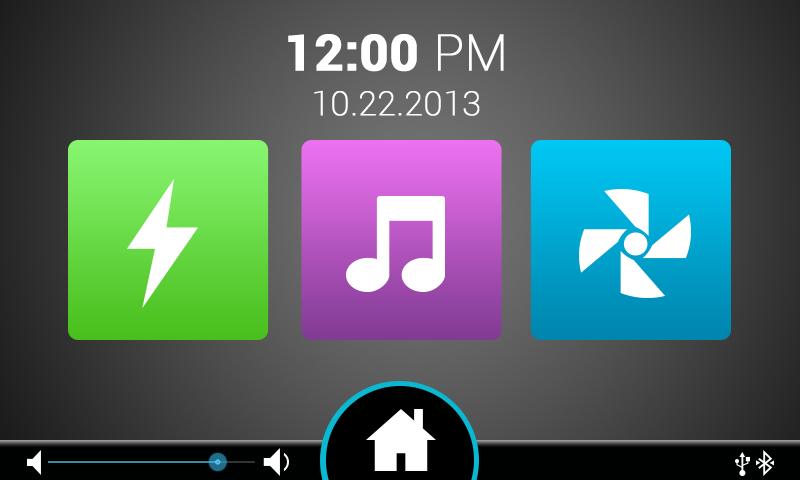
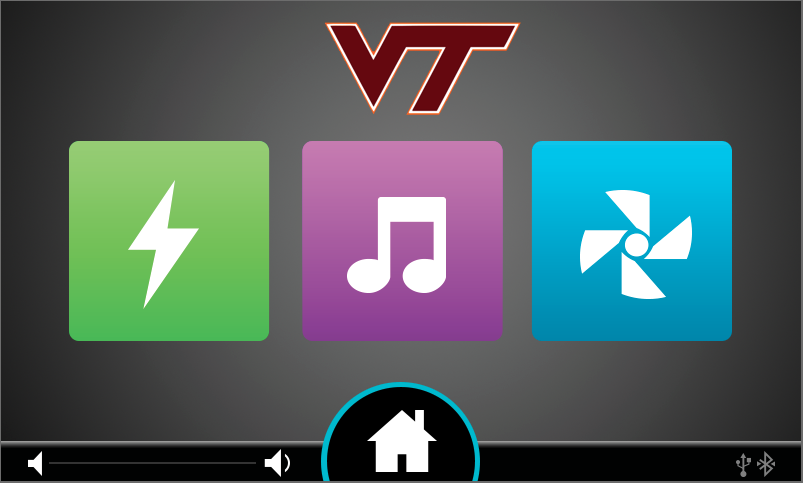
volume setting page added

diff --git a/qml/UI_v2/VolSetting.qml b/qml/UI_v2/VolSetting.qml
@@ -3,7 +3,7 @@ Image{
     id: volSetting
     x: 0
     y: 0
-    source:"UIPictures/volSetting.png"
+    source:"UIPictures/Home Screens/volumesettings.png"
     //initialize variables
     property int bassLevel
     property int trebleLevel
@@ -60,18 +60,22 @@ Image{
     //fade and balance sound control in the vehicle.
     Image{
         id: ball
-        x:261
-        y:71
+        x:576
+        y:185
+        width: 110
+        height: 110
+        sourceSize.height: 170
+        sourceSize.width: 170
         //x: 430
         //y: 66
         opacity: 1
-        source:"UIPictures/ball.png"
+        source:"UIPictures/Buttons/Volume Setting Buttons/volume_ball.png"
         MouseArea{
             id:fadeBalance
             x: 0
             y: 0
-            width: 172
-            height: 166
+            width: 110
+            height: 110
             drag.target:parent
             drag.axis:Drag.XandYAxis
         }
@@ -81,15 +85,15 @@ Image{
 //            }
             //these code is to make sure that the x axis does not get outside of the outline of
             //the car in the x axis
-            if(x<265){
-                x = 265
+            if(x<548){
+                x = 548
             }
-            if(x>594){
-                x = 594
+            if(x>600){
+                x = 600
             }
-            fadeLevel =(x-265)*255/329;
+            fadeLevel =(x-548)*255/52;
 //            console.log("fade = " +fadeLevel);
-            busMessage = "0x244 0x07 0xAE 0X03 0X0 0X0 0X80 "+fadeLevel+" 0X0"        // Create CAN message
+            busMessage = "0x244 0x07 0xAE 0X03 0X0 0X0 0X80 0x"+AC_Controls.convert(fadeLevel)+" 0X0"        // Create CAN message
             keypressed = "fade"  // Debug Message
             RadioUnit.radioBus(busMessage, keypressed) // Send CAN message onto bus
         }
@@ -99,15 +103,15 @@ Image{
 //            }
             //these code is to make sure that the y axis does not get outside of the outline of
             //the car in the y axis
-            if(y<44){
-                y = 44
+            if(y<77){
+                y = 77
             }
-            if(y>103){
-                y=103
+            if(y>300){
+                y=300
             }
-            balanceLevel = (103-y)*255/59;
+            balanceLevel = (300-y)*255/223;
 //            console.log("balance = " +balanceLevel);
-            busMessage = "0x244 0x07 0xAE 0X03 0X0 0X0 0X40 0X0 "+balanceLevel        // Create CAN message
+            busMessage = "0x244 0x07 0xAE 0X03 0X0 0X0 0X40 0X0 0x"+AC_Controls.convert(balanceLevel)        // Create CAN message
             keypressed = "Balance"  // Debug Message
             RadioUnit.radioBus(busMessage, keypressed) // Send CAN message onto bus
         }
@@ -115,38 +119,39 @@ Image{
     //this is used for bass
         Rectangle {
             id: container
-            x: 127
-            y: 114
-            width: 20; height: 120
+            x: 159
+            y: 164
+            width: 227; height: 20
             color: "transparent"
-            rotation: 180
+            //rotation: 180
             Rectangle{
                 id: rect1
-                y: 0
-                width:20;height: 60
-                color:"deepskyblue"
+                x: 0
+                y: 8
+                width:60; height:2
+                color:"#987098"
             }
-            Rectangle {
+            Image {
                 id: rect
-                y:60
-                width: 20; height: 10
-                color: "dodgerblue"
+                x:60
+                y: 0
+                source: "UIPictures/Buttons/Volume Setting Buttons/bass_treble.png"
                 MouseArea {
                     id: rectMouse
                     width: 30
                     height: 30
                     //anchors.fill: parent
                     drag.target: rect
-                    drag.axis: Drag.YAxis
-                    drag.minimumY: 0
-                    drag.maximumY: container.height-rect.height
+                    drag.axis: Drag.XAxis
+                    drag.minimumX: 0
+                    drag.maximumX: container.width-rect.width
                 }
-                onYChanged: {
-                    rect1.height = y;
-                    //console.log("height = "+ y)
-                    bassLevel = y/110*255
+                onXChanged: {
+                    rect1.width = x;
+                    //console.log("height = "+ x/(container.width-rect.width))
+                    bassLevel = x/(container.width-rect.width)*255
                     //console.log("basslevel = "+bassLevel)
-                    busMessage = "0x244 0x07 0xAE 0X04 0X80 "+bassLevel+" 0X0 0X0 0x0"        // Create CAN message
+                    busMessage = "0x244 0x07 0xAE 0X04 0X80 0x"+AC_Controls.convert(bassLevel)+" 0X0 0X0 0x0"        // Create CAN message
                     keypressed = "bass"  // Debug Message
                     RadioUnit.radioBus(busMessage, keypressed) // Send CAN message onto bus
                 }
@@ -155,38 +160,38 @@ Image{
         //this container is used for treble
         Rectangle {
             id: trebleContainer
-            x: 196
-            y: 114
-            width: 20; height: 120
+            x: 159
+            y: 279
+            width:227; height:20
             color: "transparent"
-            rotation: 180
+            //rotation: 180
             Rectangle{
                 id: rect2
-                y: 0
-                width:20;height: 60
-                color:"deepskyblue"
+                x: 0
+                y: 8
+                width:60; height:2
+                color:"#987098"
             }
-            Rectangle {
+            Image {
                 id: rect3
-                y:60
-                width: 20; height: 10
-                color: "dodgerblue"
+                x:60
+                source: "UIPictures/Buttons/Volume Setting Buttons/bass_treble.png"
                 MouseArea {
                     id: rectMouse2
                     width: 30
                     height: 30
                     //anchors.fill: parent
                     drag.target: rect3
-                    drag.axis: Drag.YAxis
-                    drag.minimumY: 0
-                    drag.maximumY: trebleContainer.height-rect3.height
+                    drag.axis: Drag.XAxis
+                    drag.minimumX: 0
+                    drag.maximumX: trebleContainer.width-rect3.width
                 }
-                onYChanged: {
-                    rect2.height = y;
-                    console.log("treble = "+ y)
-                    trebleLevel = y/110*255
-                    //console.log("basslevel = "+bassLevel)
-                    busMessage = "0x244 0x07 0xAE 0X04 0X20 0x0 0x0 "+trebleLevel+" 0X0"        // Create CAN message
+                onXChanged: {
+                    rect2.width = x;
+                    //console.log("treble = "+ x)
+                    trebleLevel = x/(trebleContainer.width-rect3.width)*255
+                    //console.log("basslevel = "+AC_Controls.convert(trebleLevel))
+                    busMessage = "0x244 0x07 0xAE 0X04 0X20 0x0 0x0 0x"+AC_Controls.convert(trebleLevel)+" 0X0"        // Create CAN message
                     keypressed = "treble"  // Debug Message
                     RadioUnit.radioBus(busMessage, keypressed) // Send CAN message onto bus
                 }
